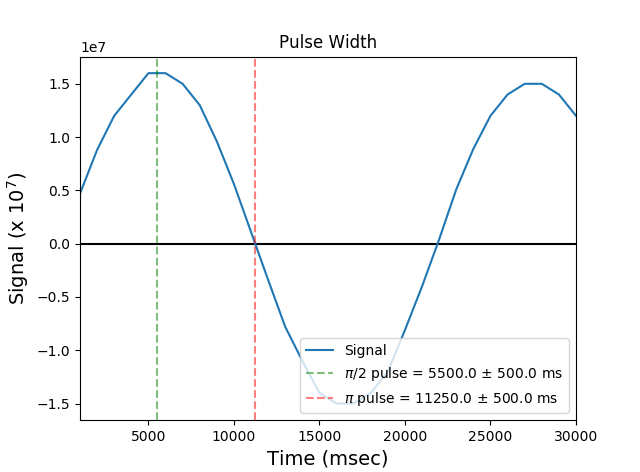
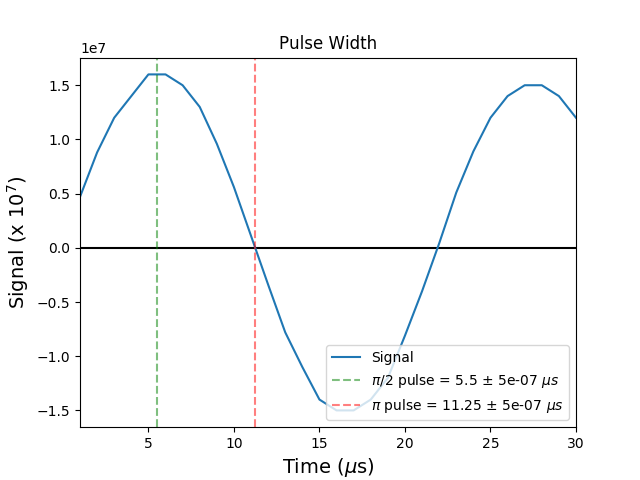
Incorrect units

diff --git a/nmr/plot_ispin_nmr_data_pulsewidth.py b/nmr/plot_ispin_nmr_data_pulsewidth.py
@@ -7,12 +7,9 @@ Amended Feb 2018 by Kaitlyn and Patrick
 '''
 
 import numpy as np
-import scipy as sp
 import sympy as sm
-import matplotlib as mpl
 import matplotlib.pyplot as plt
 import matplotlib.mlab as mlab
-import scipy.integrate as integrate
 
 
 # Allows LaTeX output in Jupyter and in matplotlib
@@ -23,18 +20,17 @@ This reads in complex data from a file and outputs a tuple (t,za,s), where t is 
 '''
 def read_data_file(fname):
     infile = open(fname,"r")
-    text = infile.read()      # read file into a string
     infile.close()
 
     bw = 100000.000# This gives the bandwidth
-    print 'bw = ',bw
-    print '1/bw = ',1/bw  # Note that the time interval between points is 1/bw
+    print('bw = ',bw)
+    print('1/bw = ',1/bw)  # Note that the time interval between points is 1/bw
 
     # Read the data from the the file starting on line 1
     s1 = mlab.csv2rec(fname, skiprows=0)
     npts = len(s1)/2  # number of complex data points
 
-    print 'npts = ',npts
+    print('npts = ',npts)
 
     t =  s1['pulse_width_us__plot_0']  #time data
 
@@ -59,9 +55,9 @@ Begin Execution Here
 
 # The following is the filename containing the data
 directory = "data/pulseWidth/"
-filename = "pulsewidthfind2.csv"
+filename = "pulsewidthfind.csv"
 fname = directory+filename
-print "filename = ",fname
+print("filename = ",fname)
 plot_title='Pulse Width'
 
 # read data from file
@@ -88,20 +84,20 @@ Plot the Time Data:
 # draw x and y axes
 ax1.axhline(color ='k')
 ax1.axvline(color ='k')
-print 'len(az.real)=',len(za.real)
-print 'len(t)=',len(t)
+print('len(az.real)=',len(za.real))
+print('len(t)=',len(t))
 
-tscale = 1e3   # change time units to msec
-tunits = 'msec'
-pi2_pulse = 5.5*tscale
-pi_pulse  = 11.25*tscale
+tscale = 1e-6   # change time units to µsec
+tunits = '$\mu$s'
+pi2_pulse = 5.5
+pi_pulse  = 11.25
 pulse_uncertainty = 1*tscale / 2#microsec from spincore graph precision
 
 # plot the points
-ax1.plot(t*tscale,A,label='Signal')
-ax1.axvline(pi2_pulse, ls='--',color='g',alpha=.5,label='$\\pi/2$ pulse = {} $\pm$ {} ms'.format(pi2_pulse, pulse_uncertainty))
+ax1.plot(t,A,label='Signal')
+ax1.axvline(pi2_pulse, ls='--',color='g',alpha=.5,label='$\\pi/2$ pulse = {} $\pm$ {} $\mu s$'.format(pi2_pulse, pulse_uncertainty))
 if len(t) > 29:
-    ax1.axvline(pi_pulse, ls='--',color='r',alpha=.5,label='$\\pi$ pulse = {} $\pm$ {} ms'.format(pi_pulse, pulse_uncertainty))
+    ax1.axvline(pi_pulse, ls='--',color='r',alpha=.5,label='$\\pi$ pulse = {} $\pm$ {} $\mu s$'.format(pi_pulse, pulse_uncertainty))
 
 # label the axes and display legend
 ax1.set_xlabel('Time ('+np.str(tunits)+')',fontsize=14)
@@ -109,7 +105,7 @@ ax1.set_ylabel('Signal (x $10^'+str(int(pow))+ '$)',fontsize=14)
 ax1.legend(loc='lower right')
 
 # specify the plot limits
-ax1.set_xlim(t[0]*tscale,t[-1]*tscale)
+ax1.set_xlim(t[0],t[-1])
 
 
 '''
